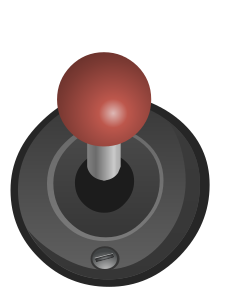
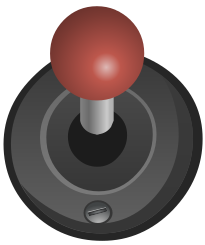
Adds attempt at making switches interactive.

diff --git a/deuce/src/app/panel/panel.component.html b/deuce/src/app/panel/panel.component.html
@@ -2,46 +2,46 @@
     <div fxLayout="column" fxLayoutGap="30px">
         <div fxLayout="row" fxLayoutGap="10px">
             <div fxLayout="column" fxLayoutGap="1px" fxLayoutAlign="start center">
-                <app-switch></app-switch>
+                <app-switch id='read'></app-switch>
                 <div>READ</div>
             </div>
 
             <div fxLayout="column" fxLayoutGap="1px" fxLayoutAlign="start center">
-                <app-switch></app-switch>
+                <app-switch id='singleShot'></app-switch>
                 <div>SINGLE</div>
                 <div>SHOT</div>  
             </div>
 
             <div fxLayout="column" fxLayoutGap="1px" fxLayoutAlign="start center">
-                <app-switch></app-switch>
+                <app-switch id='punch'></app-switch>
                 <div>PUNCH</div>
             </div>
 
             <div fxLayout="column" fxLayoutGap="1px" fxLayoutAlign="start center">
-                <app-switch></app-switch>
+                <app-switch id='progDisplay'></app-switch>
                 <div>PROG.</div>
                 <div>DISPLAY</div>
             </div>
 
             <div fxLayout="column" fxLayoutGap="1px" fxLayoutAlign="start center">
-                <app-switch></app-switch>
+                <app-switch id='til'></app-switch>
                 <div>TIL</div>
             </div>
             
             <div fxLayout="column" fxLayoutGap="1px" fxLayoutAlign="start center">
-                <app-switch></app-switch>
+                <app-switch id='initialInput'></app-switch>
                 <div>INITIAL</div>
                 <div>INPUT</div>
             </div>
 
             <div fxLayout="column" fxLayoutGap="1px" fxLayoutAlign="start center">
-                <app-switch></app-switch>
+                <app-switch id='clearStore'></app-switch>
                 <div>CLEAR</div>
                 <div>STORE</div>
             </div>
 
             <div fxLayout="column" fxLayoutGap="1px" fxLayoutAlign="start center">
-                <app-switch></app-switch>
+                <app-switch id='extTree'></app-switch>
                 <div>EXT</div>
                 <div>TREE</div>
             </div>
@@ -53,7 +53,7 @@
             </div>-->
 
             <div fxLayout="column" fxLayoutGap="1px" fxLayoutAlign="start center">
-                <app-switch></app-switch>
+                <app-switch id='singleShot'></app-switch>
                 <div>SINGLE</div>
                 <div>SHOT</div>
             </div>
@@ -64,17 +64,17 @@
             </div>
 
             <div fxLayout="column" fxLayoutGap="1px" fxLayoutAlign="start center">
-                <app-switch></app-switch>
+                <app-switch id='release'></app-switch>
                 <div>RELEASE</div>
             </div>
 
             <div fxLayout="column" fxLayoutGap="1px" fxLayoutAlign="start center">
-                <app-switch></app-switch>
+                <app-switch id='stop'></app-switch>
                 <div>STOP</div>
             </div>
 
             <div fxLayout="column" fxLayoutGap="1px" fxLayoutAlign="start center">
-                <app-switch></app-switch>
+                <app-switch id='clearAlarum'></app-switch>
                 <div>CLEAR</div>
                 <div>ALARUM</div>
             </div>
@@ -83,131 +83,131 @@
 
         <div fxLayout="row" fxLayoutGap="10px">
             <div fxLayout="column" fxLayoutGap="1px" fxLayoutAlign="start center">
-                <app-light></app-light>
+                <app-light id='nis1'></app-light>
                 <div>-</div>
                 <div>1</div>
-                <app-switch></app-switch>
+                <app-switch id='nis1'></app-switch>
             </div> 
             
             <div fxLayout="column" fxLayoutGap="1px" fxLayoutAlign="start center">
-                <app-light></app-light>
+                <app-light id='nis2'></app-light>
                 <div>NIS</div>
                 <div>2</div>
-                <app-switch></app-switch>
+                <app-switch id='nis2'></app-switch>
             </div>
             
             <div fxLayout="column" fxLayoutGap="1px" fxLayoutAlign="start center">
-                <app-light></app-light>
+                <app-light id='nis4'></app-light>
                 <div>-</div>
                 <div>4</div>
-                <app-switch></app-switch>
+                <app-switch id='nis4'></app-switch>
             </div>
 
             <div fxLayoutAlign="center center">***</div>
             
             <div fxLayout="column" fxLayoutGap="1px" fxLayoutAlign="start center">
-                <app-light></app-light>
+                <app-light id='source1'></app-light>
                 <div>-</div>
                 <div>1</div>
-                <app-switch></app-switch>
+                <app-switch id='source1'></app-switch>
             </div>  
 
             <div fxLayout="column" fxLayoutGap="1px" fxLayoutAlign="start center">
-                <app-light></app-light>
+                <app-light id='source2'></app-light>
                 <div>-</div>
                 <div>2</div>
-                <app-switch></app-switch>
+                <app-switch id='source2'></app-switch>
             </div>  
 
             <div fxLayout="column" fxLayoutGap="1px" fxLayoutAlign="start center">
-                <app-light></app-light>
+                <app-light id='source4'></app-light>
                 <div>SOURCE</div>
                 <div>4</div>
-                <app-switch></app-switch>
+                <app-switch id='source4'></app-switch>
             </div> 
             
             <div fxLayout="column" fxLayoutGap="1px" fxLayoutAlign="start center">
-                <app-light></app-light>
+                <app-light id='source8'></app-light>
                 <div>-</div>
                 <div>8</div>
-                <app-switch></app-switch>
+                <app-switch id='source8'></app-switch>
             </div>
             
             <div fxLayout="column" fxLayoutGap="1px" fxLayoutAlign="start center">
-                <app-light></app-light>
+                <app-light id='source16'></app-light>
                 <div>-</div>
                 <div>16</div>
-                <app-switch></app-switch>
+                <app-switch id='source16'></app-switch>
             </div>  
 
             <div fxLayoutAlign="center center">***</div>
 
             <div fxLayout="column" fxLayoutGap="1px" fxLayoutAlign="start center">
-                    <app-light></app-light>
+                    <app-light id='destination1'></app-light>
                     <div>-</div>
                     <div>1</div>
-                    <app-switch></app-switch>
+                    <app-switch id='destination1'></app-switch>
                 </div>  
     
             <div fxLayout="column" fxLayoutGap="1px" fxLayoutAlign="start center">
-                <app-light></app-light>
+                <app-light id='destination2'></app-light>
                 <div>-</div>
                 <div>2</div>
-                <app-switch></app-switch>
+                <app-switch id='destination2'></app-switch>
             </div>  
     
             <div fxLayout="column" fxLayoutGap="1px" fxLayoutAlign="start center">
-                <app-light></app-light>
+                <app-light id='destination4'></app-light>
                 <div>DESTINATION</div>
                 <div>4</div>
-                <app-switch></app-switch>
+                <app-switch id='destination4'></app-switch>
             </div> 
                 
             <div fxLayout="column" fxLayoutGap="1px" fxLayoutAlign="start center">
-                <app-light></app-light>
+                <app-light id='destination8'></app-light>
                 <div>-</div>
                 <div>8</div>
-                <app-switch></app-switch>
+                <app-switch id='destination8'></app-switch>
             </div>
                 
             <div fxLayout="column" fxLayoutGap="1px" fxLayoutAlign="start center">
-                <app-light></app-light>
+                <app-light id='destination16'></app-light>
                 <div>-</div>
                 <div>16</div>
-                <app-switch></app-switch>
+                <app-switch id='destination16'></app-switch>
             </div>  
     
             <div fxLayoutAlign="center center">***</div>
 
             <div fxLayout="column" fxLayoutGap="1px" fxLayoutAlign="end center">
-                <app-switch></app-switch>
+                <app-switch id='char'></app-switch>
                 <div>CHAR</div>
             </div> 
         </div>
 
         <div fxLayout="row" fxLayoutGap="10px">
             <div fxLayout="column" fxLayoutGap="1px" fxLayoutAlign="start center">
-                <app-light></app-light>
+                <app-light id='out1'></app-light>
                 <div>1</div>
-                <app-light></app-light>
+                <app-light id='in1'></app-light>
             </div> 
                 
             <div fxLayout="column" fxLayoutGap="1px" fxLayoutAlign="start center">
-                <app-light></app-light>
+                <app-light id='out2'></app-light>
                 <div>2</div>
-                <app-light></app-light>
+                <app-light id='in2'></app-light>
             </div> 
                 
             <div fxLayout="column" fxLayoutGap="1px" fxLayoutAlign="start center">
-                <app-light></app-light>
+                <app-light id='out3'></app-light>
                 <div>3</div>
-                <app-light></app-light>
+                <app-light id='in3'></app-light>
             </div> 
     
             <div fxLayout="column" fxLayoutGap="1px" fxLayoutAlign="start center">
-                <app-light></app-light>
+                <app-light id='out4'></app-light>
                 <div>4</div>
-                <app-light></app-light>
+                <app-light id='in4'></app-light>
             </div> 
 
             <div fxLayout="column" fxLayoutGap="1px" fxLayoutAlign="start center">

diff --git a/deuce/src/app/panel/switch/switch.component.ts b/deuce/src/app/panel/switch/switch.component.ts
@@ -6,7 +6,22 @@ import { Component, OnInit } from '@angular/core';
   styleUrls: ['./switch.component.css']
 })
 export class SwitchComponent implements OnInit {
+  off = 'src/assets/img/switch-off.png';
+  on = 'src/assets/img/switch-on.png';
 
+  change(event: any) {
+    const imgElement = <HTMLImageElement>document.getElementById('switch');
+    console.log(imgElement.src);
+
+    if (imgElement.src === this.off) {
+      imgElement.src = this.on;
+      console.log('ON');
+    } else {
+      imgElement.src = this.on;
+      console.log('OFF');
+    }
+
+  }
   constructor() { }
 
   ngOnInit() {

diff --git a/deuce/src/app/panel/light/light.component.html b/deuce/src/app/panel/light/light.component.html
@@ -1,3 +1,3 @@
 <div>
-    <img src = "..\..\assets\img\domelight_offwhite.png">
-  </div>
+    <img class="light" src = "..\..\assets\img\DomeLight_offWhite.png">
+</div>

diff --git a/deuce/src/app/panel/switch/switch.component.html b/deuce/src/app/panel/switch/switch.component.html
@@ -1,3 +1,3 @@
 <div>
-  <img src = "..\..\assets\img\switch-off.png">
+  <img src = {{off}} (click)="change($event)" id="switch">
 </div>

diff --git a/deuce/src/app/panel/switch/switch.component.css b/deuce/src/app/panel/switch/switch.component.css
@@ -1,0 +1,4 @@
+#switch {
+    width: 40px;
+    height: 50px;
+}

diff --git a/deuce/src/app/panel/light/light.component.css b/deuce/src/app/panel/light/light.component.css
@@ -1,0 +1,4 @@
+.light{
+    height: 30px;
+    width: 30px;
+}
